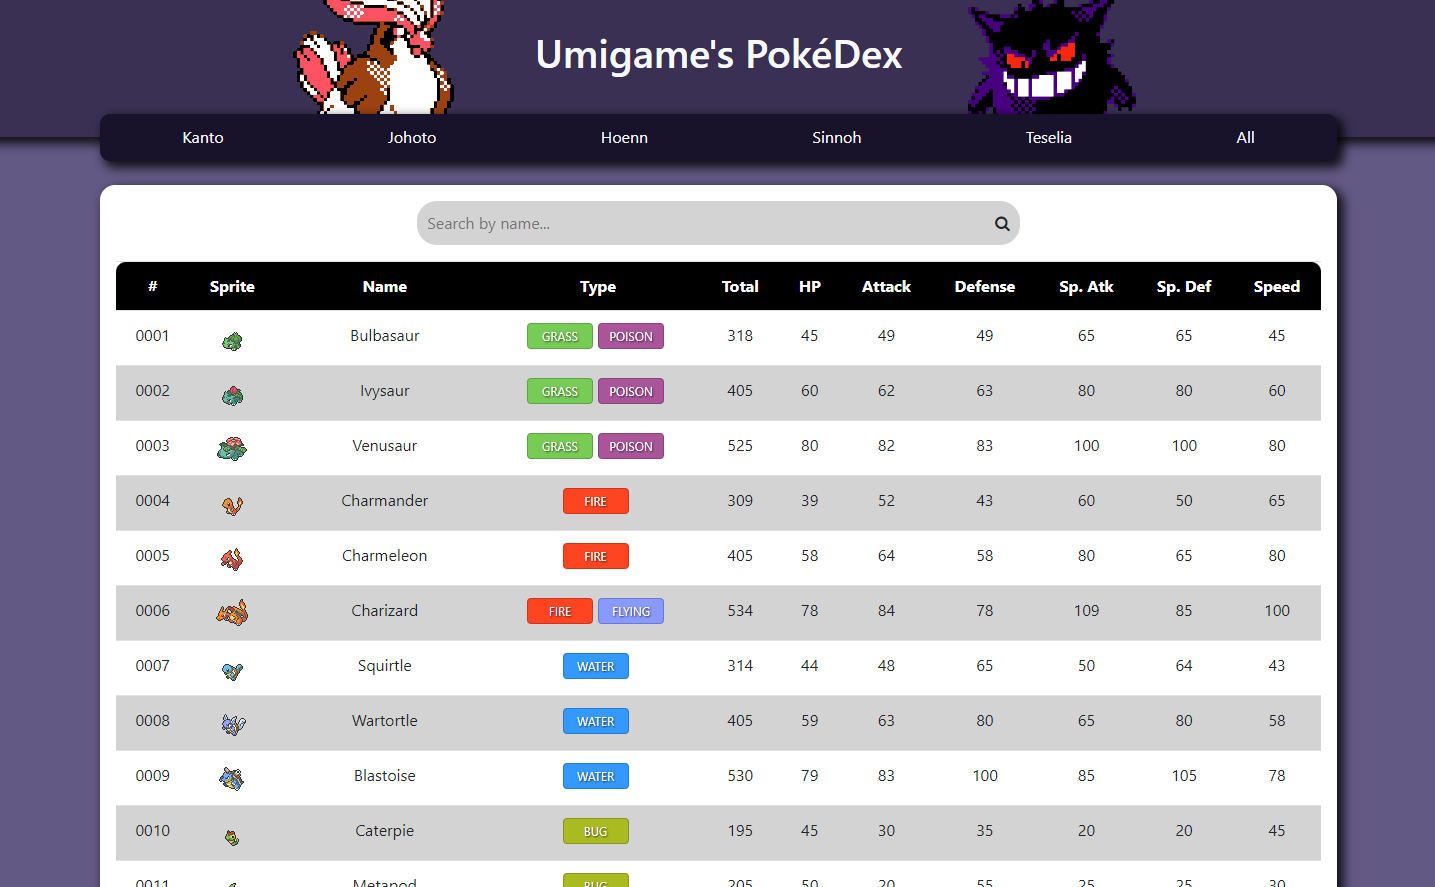
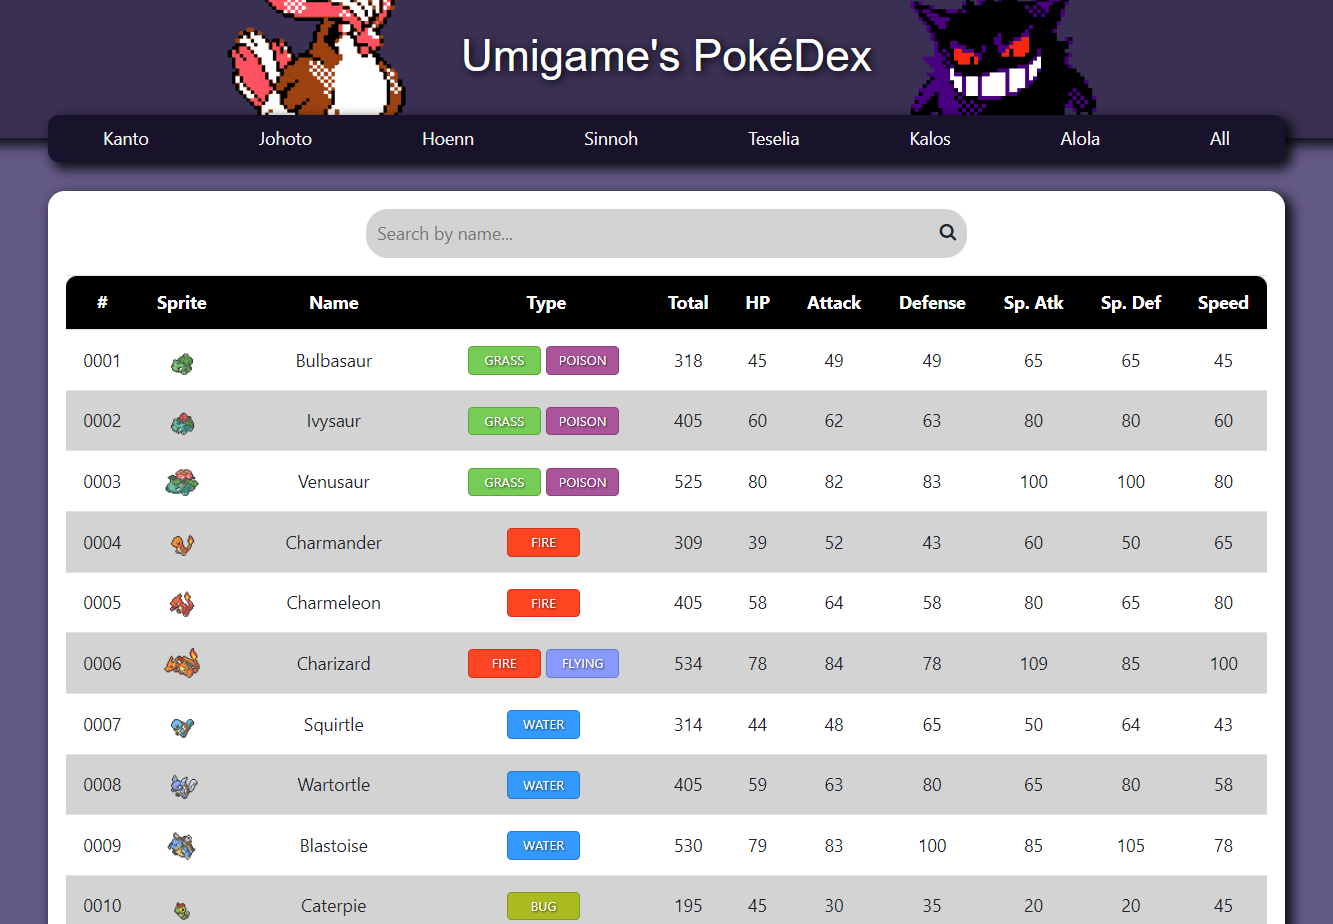
Regions & README.md Updated

diff --git a/index.html b/index.html
@@ -23,8 +23,11 @@
             <li><a class="text-decoration-none text-light" href="#" onclick="getData('https://pokeapi.co/api/v2/pokemon?limit=151&offset=0')">Kanto</a></li>
             <li><a class="text-decoration-none text-light" href="#" onclick="getData('https://pokeapi.co/api/v2/pokemon?limit=100&offset=151')">Johoto</a></li>
             <li><a class="text-decoration-none text-light" href="#" onclick="getData('https://pokeapi.co/api/v2/pokemon?limit=135&offset=251')">Hoenn</a></li>
-            <li><a class="text-decoration-none text-light" href="#" onclick="getData('https://pokeapi.co/api/v2/pokemon?limit=386&offset=0')">All</a></li>
-            <li><a class="text-decoration-none text-light" href="#">GitHub</a></li>
+            <li><a class="text-decoration-none text-light" href="#" onclick="getData('https://pokeapi.co/api/v2/pokemon?limit=107&offset=386')">Sinnoh</a></li>
+            <li><a class="text-decoration-none text-light" href="#" onclick="getData('https://pokeapi.co/api/v2/pokemon?limit=155&offset=494')">Teselia</a></li>
+            <li><a class="text-decoration-none text-light" href="#" onclick="getData('https://pokeapi.co/api/v2/pokemon?limit=72&offset=649')">Kalos</a></li>
+            <li><a class="text-decoration-none text-light" href="#" onclick="getData('https://pokeapi.co/api/v2/pokemon?limit=86&offset=721')">Alola</a></li>
+            <li><a class="text-decoration-none text-light" href="#" onclick="getData('https://pokeapi.co/api/v2/pokemon?limit=807&offset=0')">All</a></li>
         </ul>
     </nav>
 

diff --git a/js/script.js b/js/script.js
@@ -159,5 +159,5 @@ function search() {
 }
 
 window.onload = function() {
-    getData("https://pokeapi.co/api/v2/pokemon?limit=386&offset=0");
+    getData("https://pokeapi.co/api/v2/pokemon?limit=807&offset=0");
 }

diff --git a/README.md b/README.md
@@ -4,14 +4,15 @@
 
 ## Introduction
 
-Welcome to my Pokémon Database. I made this Pokédex mainly to learn more about API calls and how to implement those in JavaScript using Fetch API. All the data is extracted from an API called PokéAPI.
+Welcome to my [Pokémon Database](https://umigam3.github.io/pokedex-api/). I made this Pokédex mainly to learn more about API calls and how to implement those in JavaScript using Fetch API. All the data is extracted from an API called PokéAPI.
 
 In addition to that, I'm making this little project to get knowledge about structuring HTML pages and improving them with CSS. I implemented Bootstrap to familiarize with this framework.
 
+    ![Pidgeot](/img/pidgeot.gif)
+
 ## Features
 
-This is a basic PokéDex that shows basic information about all the Pokémons until generation 5. It displays diferents parameters of each Pokémon such as the Name, Type, Total Stats, HP, Attack, Defense, Special Attack, Special Defense and Speed.
+This is a basic PokéDex that shows basic information about all the Pokémons up to generation 7. It displays diferents parameters of each Pokémon such as the Name, Type, Total Stats, HP, Attack, Defense, Special Attack, Special Defense and Speed.
 
-Link: https://umigam3.github.io/pokedex-api/
+    ![Preview of the aplication](/img/readme/general_view.png)
 
-<img class="main-header__image" src="img/readme/general_view.png">
